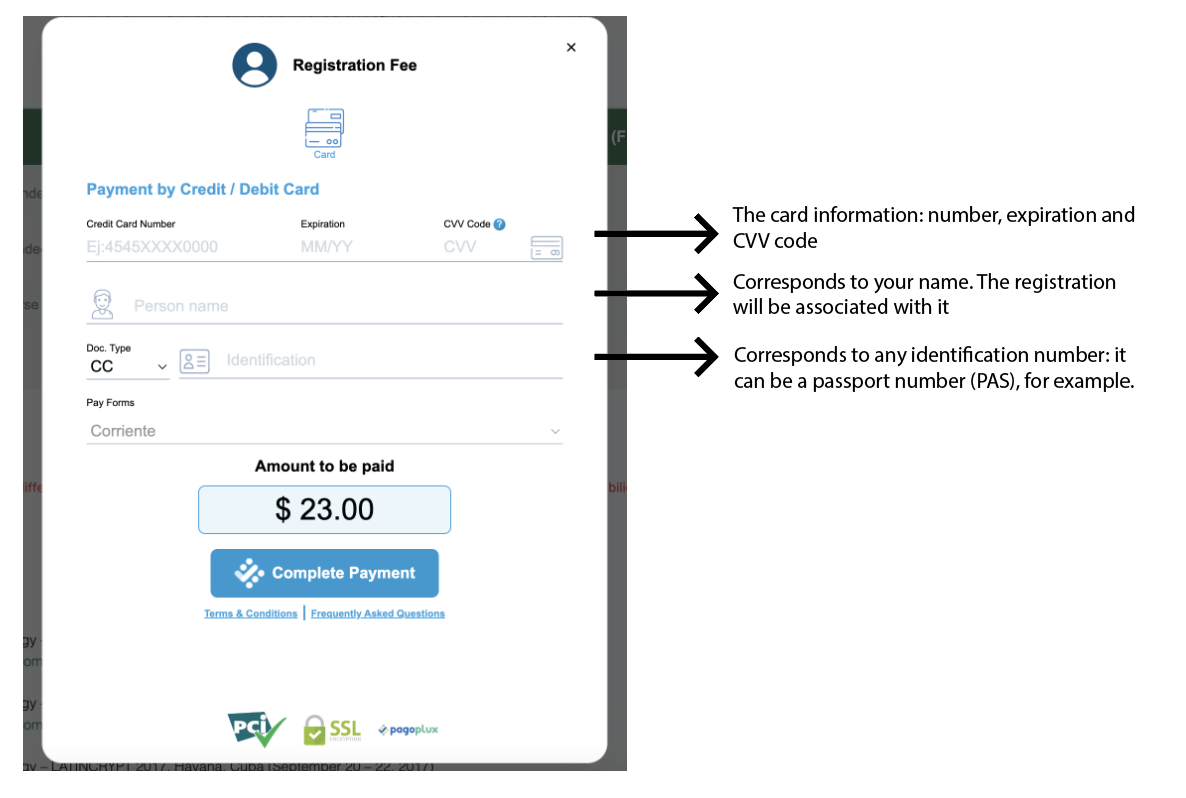
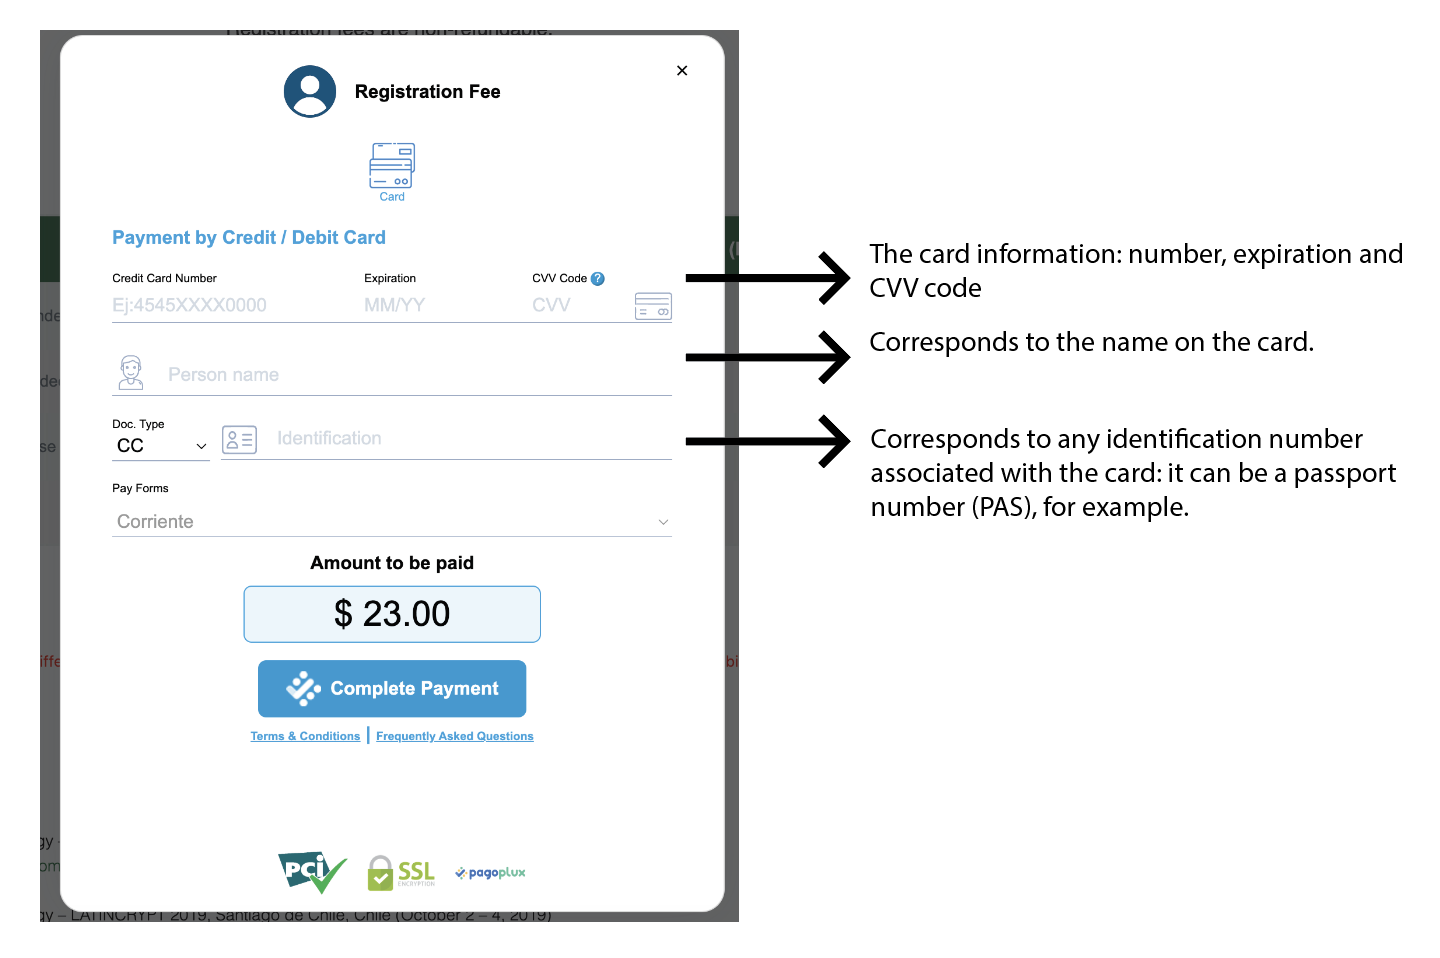
Add

Changed region(s): [[0.0, 0.0, 0.9671, 0.9925], [0.3744, 0.2707, 0.4368, 0.3308], [0.3744, 0.6316, 0.4056, 0.6617]]

diff --git a/registration.html b/registration.html
@@ -69,8 +69,9 @@ tags: menu
 	<p>Once all is filled, you should click the "Complete payment" button.</p>
 	<p>If your card has a form of 2nd factor, the bank associated with your card will prompt you to fill it.</p>
 	<br>
-	<p>If all is successful, you should see a prompt confirmation and an email will arrive from <code>transacciones -at- pagoplux -dot- com</code>.</p>
+	<p>If all is successful, you should see a prompt confirmation (as below) and an email will arrive from <code>transacciones -at- pagoplux -dot- com</code>.</p>
 	<br>
+  <img src="../assets/success.png" alt="Success notification" id="form">
 	<br>
 	<h2>Registration form errors</h3>
 	<br>
